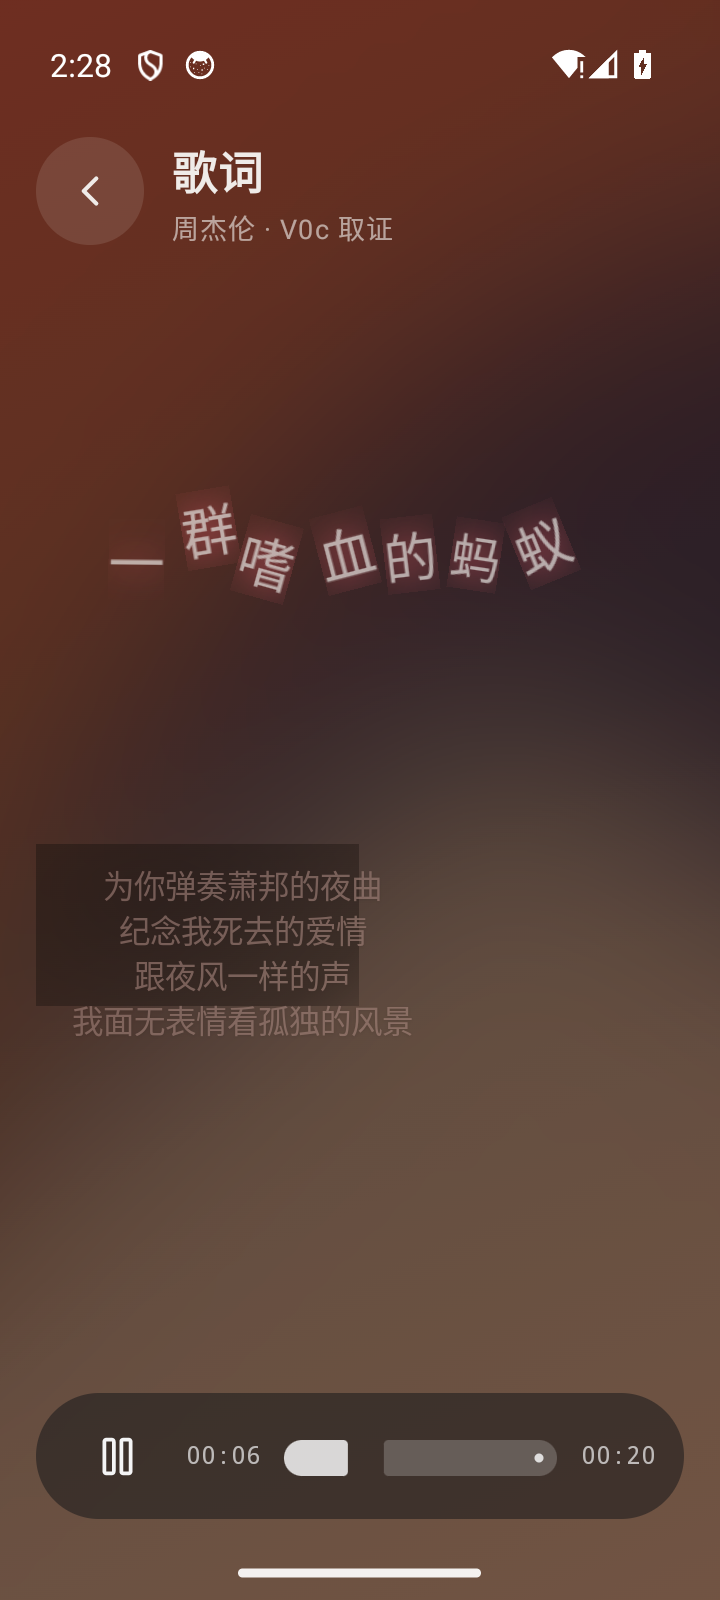
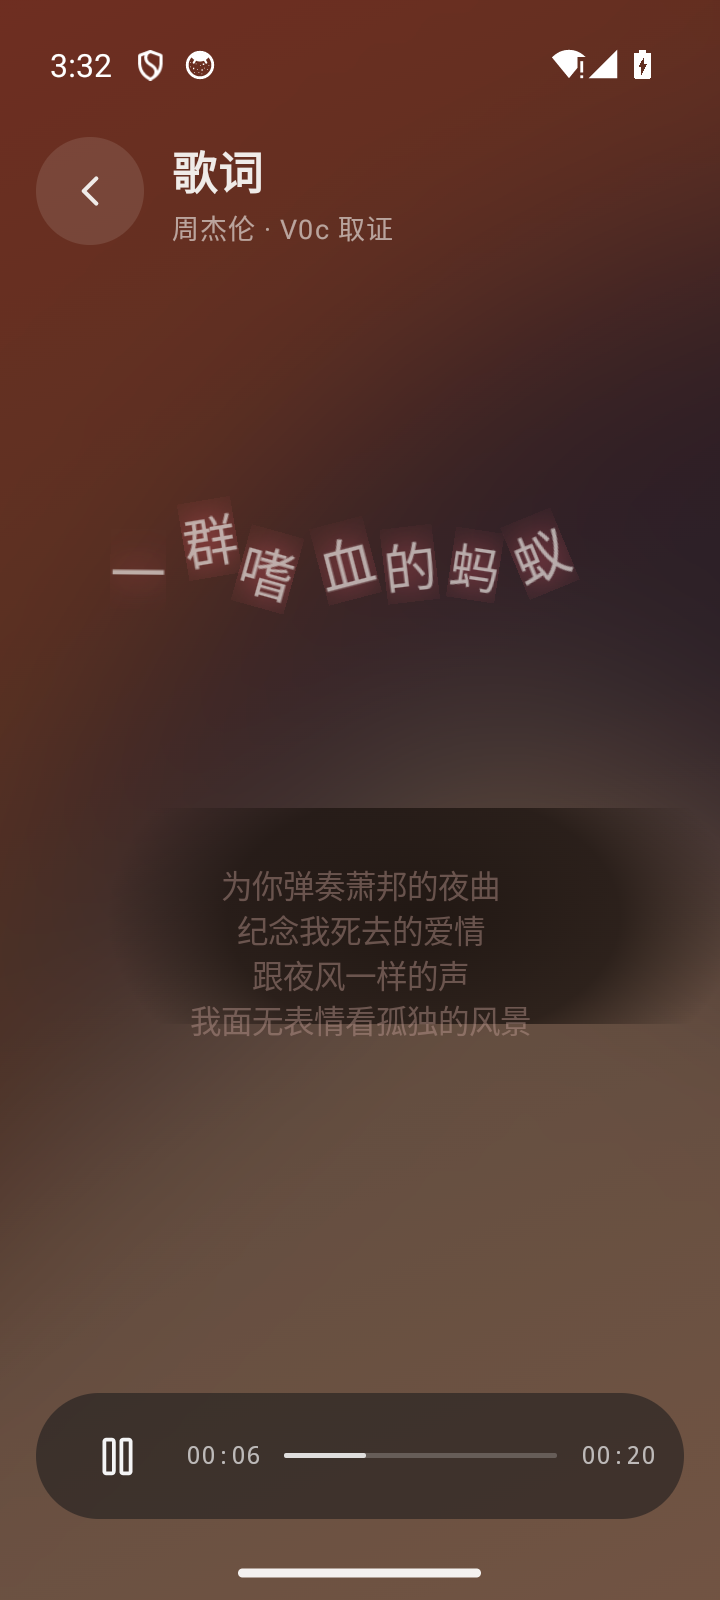
V0e-fix: 字幕层渐变 + 重拍

diff --git a/feature/player/src/main/java/com/guangyue/feature/player/lyrics/SubtitleOverlay.kt b/feature/player/src/main/java/com/guangyue/feature/player/lyrics/SubtitleOverlay.kt
@@ -1,40 +1,37 @@
-package com.guangyue.feature.player.lyrics
+package com.guangyue.feature.player.lyrics
 
 import androidx.compose.animation.core.Animatable
 import androidx.compose.animation.core.FastOutSlowInEasing
 import androidx.compose.animation.core.tween
 import androidx.compose.foundation.layout.Box
 import androidx.compose.foundation.layout.Column
+import androidx.compose.foundation.layout.fillMaxWidth
 import androidx.compose.foundation.layout.padding
-import androidx.compose.foundation.layout.wrapContentWidth
 import androidx.compose.material3.Text
 import androidx.compose.runtime.Composable
 import androidx.compose.runtime.LaunchedEffect
+import androidx.compose.runtime.getValue
+import androidx.compose.runtime.mutableIntStateOf
 import androidx.compose.runtime.remember
+import androidx.compose.runtime.setValue
 import androidx.compose.ui.Alignment
 import androidx.compose.ui.Modifier
-import androidx.compose.ui.draw.drawWithCache
-import androidx.compose.ui.geometry.Offset
-import androidx.compose.ui.geometry.Size
-import androidx.compose.ui.graphics.Shader
-import androidx.compose.ui.graphics.RadialGradientShader
+import androidx.compose.ui.draw.drawBehind
 import androidx.compose.ui.graphics.BlendMode
-import androidx.compose.ui.graphics.ColorFilter
-import androidx.compose.ui.graphics.Brush
 import androidx.compose.ui.graphics.Color
-import androidx.compose.ui.graphics.Shadow
+import androidx.compose.ui.graphics.Paint
+import androidx.compose.ui.graphics.drawscope.DrawScope
+import androidx.compose.ui.graphics.drawscope.drawIntoCanvas
+import androidx.compose.ui.graphics.drawscope.translate
 import androidx.compose.ui.graphics.graphicsLayer
 import androidx.compose.ui.graphics.toArgb
+import androidx.compose.ui.layout.onSizeChanged
 import androidx.compose.ui.platform.testTag
 import androidx.compose.ui.text.TextStyle
 import androidx.compose.ui.text.font.FontFamily
 import androidx.compose.ui.text.font.FontWeight
 import androidx.compose.ui.text.style.TextAlign
 import androidx.compose.ui.text.style.TextOverflow
-import androidx.compose.ui.graphics.drawscope.DrawScope
-import androidx.compose.ui.graphics.drawscope.drawIntoCanvas
-import androidx.compose.ui.graphics.drawscope.translate
-import androidx.compose.ui.graphics.Paint
 import androidx.compose.ui.unit.dp
 import androidx.compose.ui.unit.sp
 import com.guangyue.core.lyrics.ClassicLayout
@@ -91,18 +88,15 @@ fun resolveSubtitleOverlayContent(
     if (!showText) {
         return SubtitleOverlayContent(lineKey, visible = false, rows = emptyList(), previews = emptyList())
     }
-
     val line = activeLine
     if (line == null) {
         // 没有当前行就没有字幕（Folia 的预告也只在有 activeLine 时给）。
         return SubtitleOverlayContent(lineKey, visible = false, rows = emptyList(), previews = emptyList())
     }
-
     val previewLines = readableLines(nextLines)
     val rows = mutableListOf<SubtitleRow>()
     var nextIndex = 0
     val lineText = line.fullText.trim()
-
     for (source in layout) {
         if (source == SubtitleRowSource.Next) {
             val next = previewLines.getOrNull(nextIndex)
@@ -134,7 +128,6 @@ fun resolveSubtitleOverlayContent(
         }
         rows += SubtitleRow(key = source.name.lowercase(), source = source, text = text!!)
     }
-
     val previews = if (rows.isEmpty() && activeLine != null) previewLines.map { it.fullText.trim() } else emptyList()
     return SubtitleOverlayContent(lineKey, visible = true, rows = rows, previews = previews)
 }
@@ -152,7 +145,7 @@ private val SUBTITLE_SECONDARY_GAP = 4.dp
 /** 渐变里 bg@0.78 对应的色标位置（Folia `bg@0.78 62%`）。 */
 private const val SUBTITLE_SCRIM_INNER_STOP = 0.62f
 
-/** 预告行整体透明度。V0d 已证明 Modifier.blur 会把节点光栅成矩形，层次改由 alpha 承担。 */
+/** 预告行整体透明度。层次由 alpha 承担，不用 Modifier.blur（V0d 已证明会光栅成矩形）。 */
 const val SUBTITLE_PREVIEW_OPACITY = 0.72f
 
 /** 字幕背景层相对文字区的外扩（Folia `-inset-x-10 -inset-y-6`，即 40dp / 24dp）。 */
@@ -168,19 +161,13 @@ val SUBTITLE_SCRIM_FRINGE = 40.dp
 /** 进出场时长（Folia 0.24s easeOut）。 */
 const val SUBTITLE_ENTER_MS = 240
 
-/**
- * 舞台区与字幕层之间的净空：舞台限定在这段净空之上，1.3 倍字号也不会被播放条遮。
- */
+/** 舞台区与字幕层之间的净空：舞台限定在这段净空之上，1.3 倍字号也不会被播放条遮。 */
 val SUBTITLE_STAGE_RESERVE = 56.dp
 
-/**
- * 播放胶囊（56dp）+ 上下 12dp 外边距的预留高度：字幕层要停在胶囊之上，不能压在进度条上。
- */
+/** 播放胶囊（56dp）+ 上下 12dp 外边距的预留高度：字幕层要停在胶囊之上，不能压在进度条上。 */
 val SUBTITLE_BAR_RESERVE = 80.dp
 
-/**
- * 底部字幕层。贴底、水平居中，由调用方保证已在导航栏 inset 与播放条之上。
- */
+/** 底部字幕层。贴底、水平居中，由调用方保证已在导航栏 inset 与播放条之上。 */
 @Composable
 internal fun LyricSubtitleOverlay(
     content: SubtitleOverlayContent,
@@ -199,8 +186,7 @@ internal fun LyricSubtitleOverlay(
     }
 
     val sizes = ClassicLayout.resolveSubtitleFontSizes(1.0)
-    // 校验用：把字号算成 dp 再交给 sp —— sp 已含系统 fontScale，而 lyricsFontScale 与它是同一个值，
-    // 重复相乘会双重放大。
+    // 字号算成 dp 再交给 sp —— sp 已含系统 fontScale，重复相乘会双重放大。
     val primaryDp = clampFontDp(
         sizes.translationMinRem, sizes.translationPreferredVw, sizes.translationMaxRem, viewportWidthDp,
     )
@@ -209,39 +195,45 @@ internal fun LyricSubtitleOverlay(
     ).sp
     val primaryFontSize = primaryDp.sp
     val secondaryFontSize = (primaryDp * SUBTITLE_SECONDARY_SIZE_FACTOR).sp
-    val shadow = Shadow(color = scrimColor.copy(alpha = 0.24f), offset = Offset(0f, 1f), blurRadius = 2f)
+
+    // 背景层按「最宽行宽度 × 全部行高度」算，所以先量 Column 自己（它内部按 wrap 排）。
+    var contentWidthPx by remember { mutableIntStateOf(0) }
+    var contentHeightPx by remember { mutableIntStateOf(0) }
 
     Box(
         modifier = modifier
-            .wrapContentWidth(Alignment.CenterHorizontally)
+            // 本节点独占一整行宽度：背景可以四边溢出，不会被父级 pageH 内边距裁成矩形。
+            .fillMaxWidth()
             .testTag(LyricSubtitleOverlayTag)
+            .drawBehind {
+                // Folia：背景层比文字区外扩 x 40dp / y 24dp，填
+                // radial-gradient(ellipse 115% 130% at center, bg@0.96 0%, bg@0.78 62%, transparent 100%)，
+                // 再整体 blur-2xl 把边缘化掉。这里不碰节点级模糊（V0d 已证明 Modifier.blur 把整节点
+                // 光栅成矩形、边缘变硬），改为按同一套参数自绘椭圆径向渐变，四条边都落在渐隐带里。
+                val padX = SUBTITLE_SCRIM_PAD_X.toPx()
+                val padY = SUBTITLE_SCRIM_PAD_Y.toPx()
+                val textWidth = if (contentWidthPx > 0) contentWidthPx.toFloat() else size.width
+                val textHeight = if (contentHeightPx > 0) contentHeightPx.toFloat() else size.height
+                val boxWidth = textWidth + padX * 2f
+                val boxHeight = textHeight + padY * 2f
+                translate(left = (size.width - boxWidth) / 2f, top = (size.height - boxHeight) / 2f) {
+                    drawEllipseScrim(color = scrimColor, width = boxWidth, height = boxHeight)
+                }
+            }
             .graphicsLayer {
                 alpha = enter.value * SUBTITLE_OVERLAY_OPACITY
                 translationY = (1f - enter.value) * 20.dp.toPx()
-            }
-            .drawWithCache {
-                // Folia 的背景层：比文字区外扩 x 40dp / y 24dp，填充
-                // radial-gradient(ellipse 115% 130% at center, bg@0.96 0%, bg@0.78 62%, transparent 100%)，
-                // 再整体 blur-2xl 把边缘化掉。这里不碰节点级模糊（V0d 已证明 Modifier.blur 会把整节点
-                // 光栅成矩形、边缘变硬），而是按完全相同的参数自绘一条椭圆径向渐变，
-                // 把最外的 transparent stop 再往外推 SUBTITLE_SCRIM_FRINGE，
-                // 于是四条边都在几十 dp 内渐隐到全透明，看不到任何边线（V0e 审图第 1 条）。
-                val padX = SUBTITLE_SCRIM_PAD_X.toPx()
-                val padY = SUBTITLE_SCRIM_PAD_Y.toPx()
-                val boxWidth = size.width + padX * 2f
-                val boxHeight = size.height + padY * 2f
-                onDrawBehind {
-                    // 背景超出文字区，超出部分落在父级的 unbounded 画布上（调用方已留足净空）。
-                    translate(left = -padX, top = -padY) {
-                        drawEllipseScrim(color = scrimColor, width = boxWidth, height = boxHeight)
-                    }
-                }
             },
         contentAlignment = Alignment.Center,
     ) {
         Column(
             horizontalAlignment = Alignment.CenterHorizontally,
-            modifier = Modifier.padding(horizontal = 16.dp, vertical = 8.dp).wrapContentWidth(),
+            modifier = Modifier
+                .padding(horizontal = 16.dp, vertical = 8.dp)
+                .onSizeChanged {
+                    contentWidthPx = it.width
+                    contentHeightPx = it.height
+                },
         ) {
             if (content.rows.isNotEmpty()) {
                 content.rows.forEachIndexed { index, row ->
@@ -253,11 +245,11 @@ internal fun LyricSubtitleOverlay(
                         fontWeight = if (secondary) FontWeight.Normal else FontWeight.Medium,
                         fontFamily = fontFamily,
                         textAlign = TextAlign.Center,
-                        style = TextStyle(shadow = shadow),
+                        // 不加文字阴影：Shadow 会在字形外按 blurRadius 铺一层近似矩形，就是审图里的「硬边方块」。
+                        style = TextStyle(),
                         maxLines = 2,
                         overflow = TextOverflow.Ellipsis,
-                        modifier = Modifier
-                            .padding(top = if (secondary) SUBTITLE_SECONDARY_GAP else 0.dp),
+                        modifier = Modifier.padding(top = if (secondary) SUBTITLE_SECONDARY_GAP else 0.dp),
                     )
                 }
             } else {
@@ -269,7 +261,8 @@ internal fun LyricSubtitleOverlay(
                         fontWeight = FontWeight.Normal,
                         fontFamily = fontFamily,
                         textAlign = TextAlign.Center,
-                        style = TextStyle(shadow = shadow),
+                        // 同上：不加文字阴影。
+                        style = TextStyle(),
                         maxLines = 1,
                         overflow = TextOverflow.Ellipsis,
                     )
@@ -286,22 +279,14 @@ internal fun clampFontDp(minRem: Double, preferredVw: Double, maxRem: Double, vi
     val max = (maxRem * 16.0).toFloat()
     return value.coerceIn(min, max)
 }
+
 /**
- * 字幕背景：椭圆径向渐变（对应 CSS
- * `radial-gradient(ellipse <rx> <ry> at center, bg@0.96 0%, bg@0.78 62%, transparent 100%)`）。
+ * 字幕背景：椭圆径向渐变，对应 CSS
+ * `radial-gradient(ellipse <rx> <ry> at center, bg@0.96 0%, bg@0.78 62%, transparent 100%)`。
  *
- * Compose 自带的 [Brush.radialGradient] 只有圆形，靠 drawscope 的 scale 压成椭圆会在外层留下
- * 一层还没缩放的裁剪，画面里就是一块方角。这里改用 shader 直接做椭圆距离场：
- * 中心 0.96、62% 处 0.78、100% 处全透明；半径取「背景矩形 115% × 130% + 渐隐带」，
- * 矩形四条边都落在渐变尾部，不会出现任何硬边。
- */
-/**
- * 字幕背景：椭圆径向渐变（对应 CSS
- * `radial-gradient(ellipse <rx> <ry> at center, bg@0.96 0%, bg@0.78 62%, transparent 100%)`）。
- *
- * 背景比文字区外扩 x 40dp / y 24dp 后，用「单位圆径向渐变 + 矩阵拉伸」得到椭圆，
- * 再叠加 SUBTITLE_SCRIM_FRINGE 的渐隐带，矩形四条边都落在渐变尾部，看不到任何硬边。
- * 不用节点级 Modifier.blur（V0d 已证明它会把整节点光栅成方块）。
+ * 做法是「单位圆径向渐变 + 矩阵拉伸」：先按 115% / 130% 得到椭圆主半径，再各自加一条
+ * [SUBTITLE_SCRIM_FRINGE] 的渐隐带，这样矩形四条边都落在渐变尾部（alpha≈0），看不到硬边。
+ * 不用节点级 Modifier.blur —— V0d 已证明它会把整节点光栅成方块。
  */
 private fun DrawScope.drawEllipseScrim(
     color: Color,
@@ -311,7 +296,9 @@ private fun DrawScope.drawEllipseScrim(
     val radiusX = width / 1.15f / 2f + SUBTITLE_SCRIM_FRINGE.toPx()
     val radiusY = height / 1.30f / 2f + SUBTITLE_SCRIM_FRINGE.toPx()
     val shader = android.graphics.RadialGradient(
-        0f, 0f, 1f,
+        0f,
+        0f,
+        1f,
         intArrayOf(
             color.copy(alpha = 0.96f).toArgb(),
             color.copy(alpha = 0.78f).toArgb(),

diff --git a/feature/player/src/main/java/com/guangyue/feature/player/lyrics/LyricFlowScreen.kt b/feature/player/src/main/java/com/guangyue/feature/player/lyrics/LyricFlowScreen.kt
@@ -1,4 +1,4 @@
-package com.guangyue.feature.player.lyrics
+package com.guangyue.feature.player.lyrics
 
 import androidx.compose.foundation.background
 import androidx.compose.foundation.layout.Arrangement
@@ -23,7 +23,6 @@ import androidx.compose.foundation.shape.CircleShape
 import androidx.compose.foundation.shape.RoundedCornerShape
 import androidx.compose.material3.Icon
 import androidx.compose.material3.Slider
-import androidx.compose.material3.SliderDefaults
 import androidx.compose.material3.Text
 import androidx.compose.runtime.Composable
 import androidx.compose.runtime.LaunchedEffect
@@ -484,6 +483,7 @@ internal fun LyricEmpty(
 }
 
 /** 底部胶囊：播放键 + 2dp 进度轨 + 两端等宽时间（跟播放页同观感）。 */
+@OptIn(androidx.compose.material3.ExperimentalMaterial3Api::class)
 @Composable
 private fun LyricBar(
     positionMs: Long,
@@ -542,18 +542,35 @@ private fun LyricBar(
                 .height(48.dp),
             contentAlignment = Alignment.Center,
         ) {
+            // Material3 Slider 的默认 thumb 是 20dp 实心白圆，宽度压到 2dp 的轨道上就成了
+            // 进度条左端一个白色圆角块（V0e-fix 审图第 3 条）。Folia 的播放条只有「已播轨道 + 剩余轨道」，
+            // 所以这里把 thumb / 轨道都自己画：2dp 胶囊，圆头。
             Slider(
                 value = progress.coerceIn(0f, 1f),
                 onValueChange = { onScrub(it); onScrubPreview?.invoke(it) },
                 onValueChangeFinished = {},
-                colors = SliderDefaults.colors(
-                    thumbColor = Color.Transparent,
-                    activeTrackColor = pillInk.copy(alpha = 0.85f),
-                    inactiveTrackColor = pillInk.copy(alpha = 0.22f),
-                ),
+                thumb = {},
+                track = { sliderState ->
+                    val fraction = sliderState.value.coerceIn(0f, 1f)
+                    Box(
+                        Modifier
+                            .fillMaxWidth()
+                            .height(2.dp)
+                            .clip(RoundedCornerShape(1.dp))
+                            .background(pillInk.copy(alpha = 0.22f)),
+                    ) {
+                        Box(
+                            Modifier
+                                .fillMaxWidth(fraction)
+                                .height(2.dp)
+                                .clip(RoundedCornerShape(1.dp))
+                                .background(pillInk.copy(alpha = 0.85f)),
+                        )
+                    }
+                },
                 modifier = Modifier
                     .fillMaxWidth()
-                    .height(2.dp)
+                    .height(48.dp)
                     .semantics { contentDescription = seekBarLabel },
             )
         }
